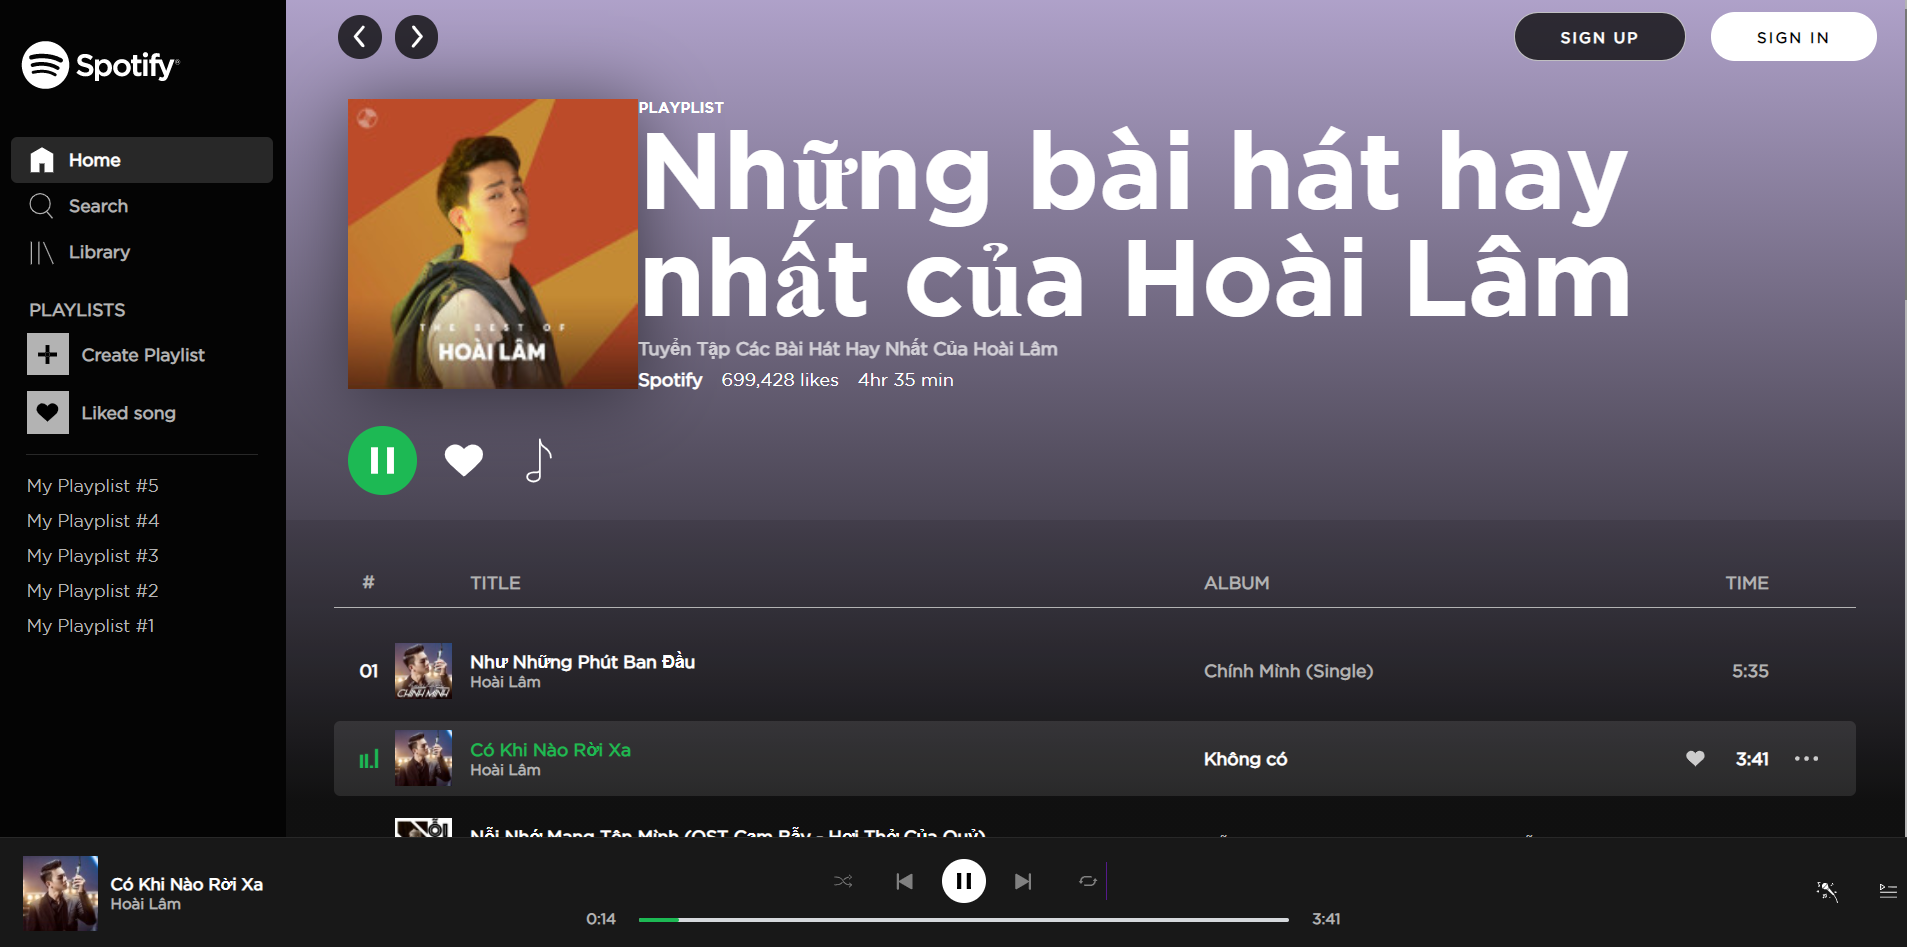
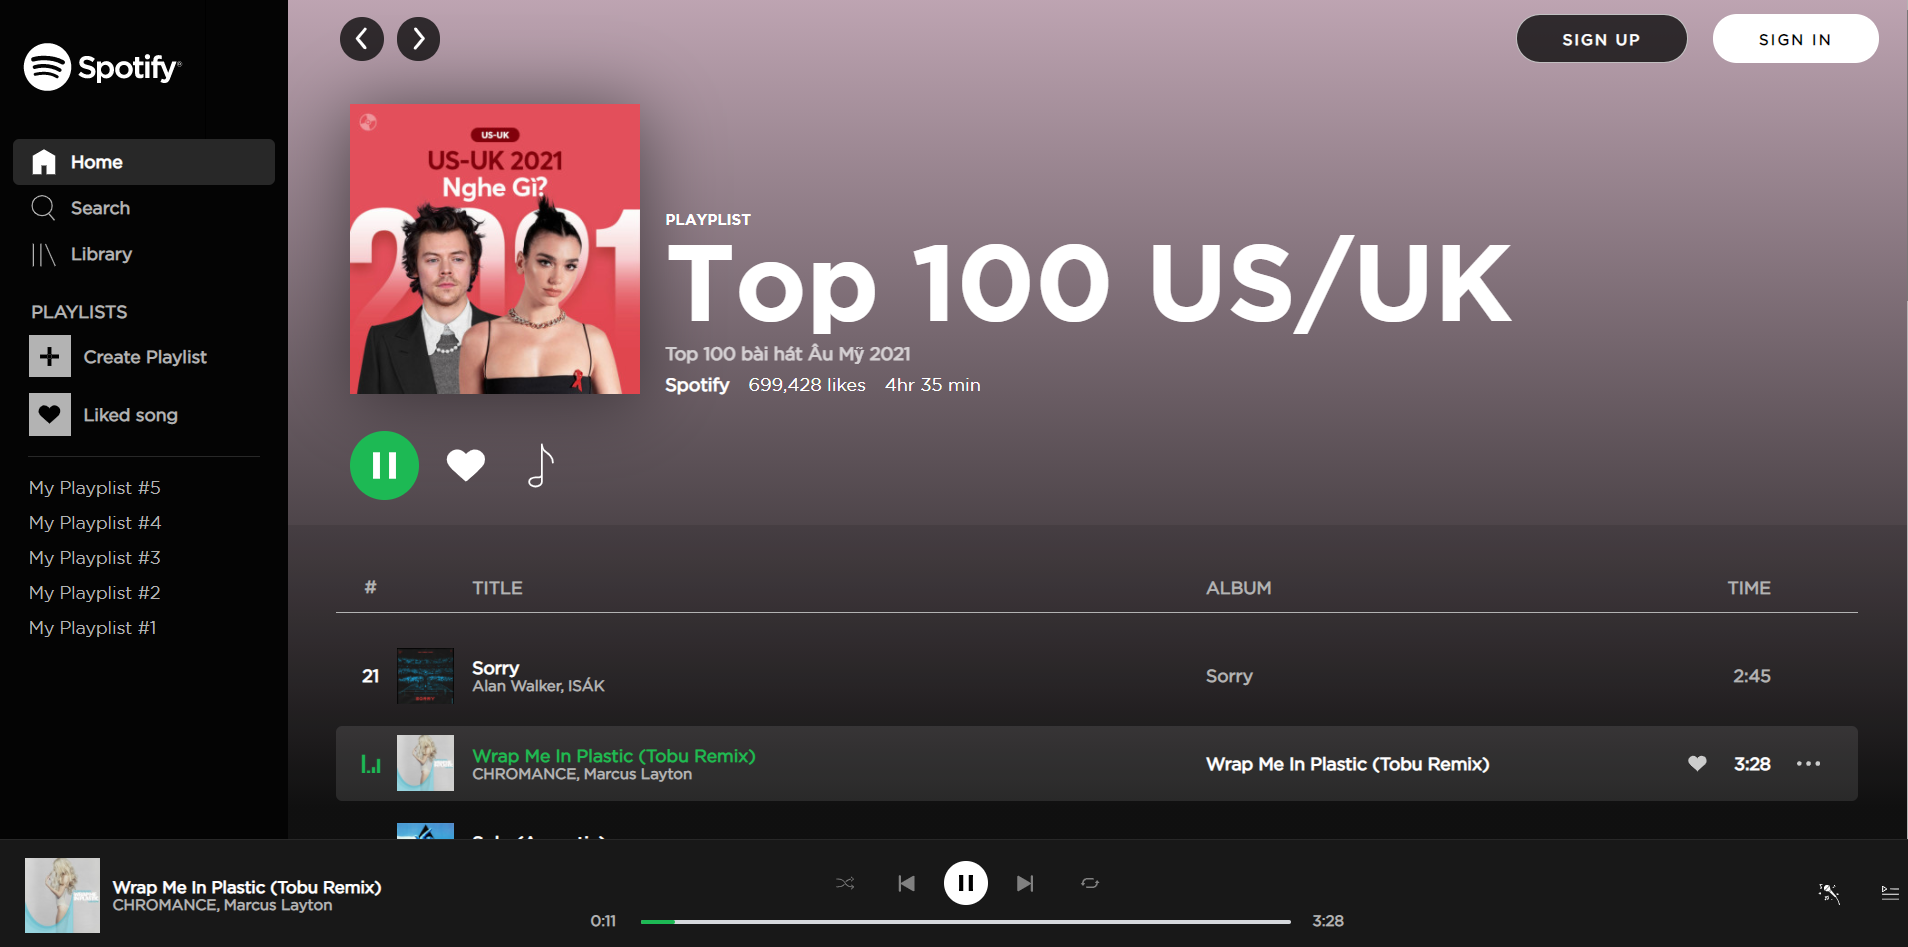
fixed some UI

diff --git a/app/components/pageInfo/styles/pageInfo.js b/app/components/pageInfo/styles/pageInfo.js
@@ -17,6 +17,7 @@ export const Image = styled.img`
   object-fit: cover;
   -webkit-box-shadow: 0 4px 60px rgba(0, 0, 0, 0.5);
   box-shadow: 0 4px 60px rgba(0, 0, 0, 0.5);
+  margin-right: 20px;
 `;
 export const Content = styled.div`
   text-align: left;
